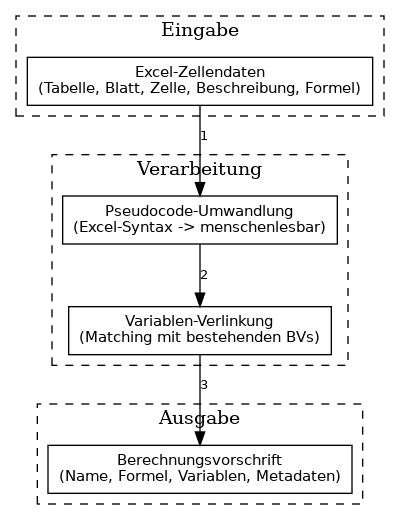
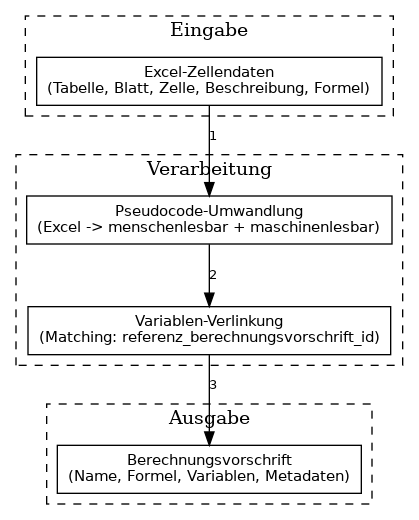
Dokumentation: Erweiterungen und DOT-Diagramme
- Formel-Syntax: menschen- und maschinenlesbar (01_definition)
- Variablen-Referenz: referenz_berechnungsvorschrift_id (01_definition)
- Versionierung: Account-Referenz (erstellt_von, geaendert_von)
- Versionierungsoptionen: 4 unterschiedliche Strategien, Empfehlung Option B
- Erzeugung in ExcelToBerechnungsvorschriften, Transfer zu IAK Farmaxis
- Neues Kapitel 05: Zusammenfuehrung von Berechnungsvorschriften
- DOT-Diagramme erweitert: formel_syntax, zusammenfuehrung_ablauf, transfer_ablauf
- Alle Diagramme an Dokumentation angepasst

diff --git a/dokumentation/05_zusammenfuehrung.md b/dokumentation/05_zusammenfuehrung.md
@@ -1,0 +1,105 @@
+# Zusammenführung von Berechnungsvorschriften
+
+## Ausgangslage
+
+**ExcelToBerechnungsvorschriften** bildet jede Zelle aus einem Excel-Dokument zu **einer** Berechnungsvorschrift ab. Das führt zu:
+
+- **Vielen einfachen Berechnungsvorschriften** – oft nur eine Zelle oder eine einfache Formel pro BV
+- **Starker Verlinkung** – BVs referenzieren sich gegenseitig über Variablen
+- **Schwer überschaubarer Struktur** – bei großen Excel-Dateien entstehen hunderte BVs
+
+**Beispiel:** Eine Excel-Tabelle mit 200 Zellen ergibt 200 Berechnungsvorschriften, die stark miteinander verlinkt sind.
+
+## Ziel der Zusammenführung
+
+Als Anwender soll es möglich sein, eine **Menge an Berechnungsvorschriften zusammenzuführen** – also mehrere BVs zu einer oder wenigen BVs zu konsolidieren. Dadurch:
+
+- Weniger, aber inhaltlich reichhaltigere BVs
+- Bessere Übersicht für die Pflege
+- Fachlich sinnvollere Gruppierung (z.B. alle Berechnungen zu „Lohnkosten“ in einer BV)
+
+## Konzept
+
+### Grundidee
+
+Mehrere Berechnungsvorschriften werden zu **einer** Berechnungsvorschrift zusammengeführt. Die resultierende BV enthält:
+
+- Einen **konsolidierten Namen** (z.B. aus der übergeordneten Kategorie)
+- Eine **kombinierte Formel** – entweder als Verkettung der Einzelformeln oder als neue Gesamtformel
+- **Alle Variablen** der Ursprungs-BVs (ohne Duplikate)
+- **Metadaten** aus der „Haupt-BV“ oder neu definiert
+
+### Voraussetzungen für die Zusammenführung
+
+
+| Voraussetzung                                  | Beschreibung                                                                                                                           |
+| ---------------------------------------------- | -------------------------------------------------------------------------------------------------------------------------------------- |
+| **Keine zirkulären Abhängigkeiten**            | Die zu zusammenführenden BVs dürfen untereinander keine Zirkularität aufweisen (A→B→C→A)                                               |
+| **Konsistente Metadaten**                      | Kategorie, Datentyp, Einheit sollten kompatibel sein – sonst Warnung                                                                   |
+| **Keine externen Referenzen auf „innere“ BVs** | BVs außerhalb der Menge dürfen nicht auf BVs verweisen, die nur intern verwendet werden (oder die Referenzen müssen umgeleitet werden) |
+
+
+### Ablauf (konzeptionell)
+
+![Zusammenführungsablauf](diagramme/zusammenfuehrung_ablauf.png)
+
+1. **Auswahl:** Anwender wählt die Menge der zu zusammenführenden BVs (z.B. alle BVs eines Tabellenblatts, einer Kategorie, oder manuell)
+2. **Prüfung:** System prüft Zirkularität, externe Referenzen, Metadaten-Konsistenz
+3. **Bestimmung der „Wurzel-BV“:** Die BV, die von keiner anderen in der Menge referenziert wird (oder die fachlich als Haupt-BV gilt), wird zur Basis
+4. **Formel-Aufbau:** Die Formeln werden zu einer Gesamtformel zusammengeführt – entweder durch Substitution (Variablen durch Unterformeln ersetzen) oder durch explizite Verkettung
+5. **Variablen-Konsolidierung:** Alle Variablen werden gesammelt; Variablen, die auf zusammengeführte BVs verweisen, werden zu primitiven Variablen oder auf die neue BV umgeleitet
+6. **Referenz-Anpassung:** Alle BVs außerhalb der Menge, die auf die alten BVs verwiesen haben, werden auf die neue BV umgestellt (oder auf die entsprechende Variable in der neuen BV)
+7. **Löschung/Archivierung:** Die alten BVs werden gelöscht oder archiviert
+
+## Potenzielle Probleme
+
+### 1. Zirkuläre Abhängigkeiten
+
+**Problem:** BV A verwendet BV B, BV B verwendet BV C, BV C verwendet BV A. Eine Zusammenführung ist nicht eindeutig möglich.
+
+**Lösung:** Zusammenführung nur zulassen, wenn die Menge azyklisch ist. Bei Zyklen: Fehlermeldung, Anwender muss die Menge anpassen.
+
+### 2. Externe Referenzen
+
+**Problem:** BV X (außerhalb der Menge) verweist auf BV B (in der Menge). Nach der Zusammenführung existiert BV B nicht mehr.
+
+**Lösung:** Vor der Zusammenführung prüfen, welche externen BVs auf die zu zusammenführenden BVs verweisen. Optionen:
+
+- **Umleitung:** Die Referenz in X wird auf die neue BV umgestellt (wenn die Variable in der neuen BV erhalten bleibt)
+- **Ablehnung:** Zusammenführung verweigern, bis der Anwender die externen Referenzen manuell löst
+- **Kaskadierte Anpassung:** Externe BVs werden automatisch angepasst (kann unerwünschte Nebenwirkungen haben)
+
+### 3. Verlust von Granularität
+
+**Problem:** Nach der Zusammenführung ist die feine Struktur (eine Zelle = eine BV) verloren. Einzelne Fehler sind schwerer zu lokalisieren.
+
+**Lösung:** Die ursprünglichen BVs können **archiviert** statt gelöscht werden. Oder: Die neue BV enthält `quelle`-Informationen, die auf die ursprünglichen Zellen verweisen (z.B. als Liste von Quellen).
+
+### 4. Formel-Komplexität
+
+**Problem:** Die zusammengeführte Formel kann sehr lang und unübersichtlich werden – besonders wenn viele BVs mit komplexen Formeln zusammengeführt werden.
+
+**Lösung:** 
+
+- Zusammenführung auf **fachlich sinnvolle** Mengen beschränken (z.B. max. 5–10 BVs)
+- Option: Statt einer Monolith-Formel eine **strukturierte Darstellung** (z.B. Unterformeln als benannte Blöcke)
+- Klare Namensgebung für Variablen in der resultierenden BV
+
+### 5. Metadaten-Konflikt
+
+**Problem:** Die zu zusammenführenden BVs haben unterschiedliche Kategorien, Einheiten oder Datentypen.
+
+**Lösung:** Der Anwender muss die Metadaten der neuen BV explizit festlegen. Das System warnt bei Inkonsistenzen und schlägt einen Default vor (z.B. aus der „Haupt-BV“).
+
+### 6. Reihenfolge und Auswertung
+
+**Problem:** Bei der Zusammenführung muss die Auswertungsreihenfolge stimmen – Variablen müssen vor ihrer Verwendung definiert sein.
+
+**Lösung:** Die Zusammenführung erfolgt entlang des Abhängigkeitsgraphen (topologische Sortierung). Die resultierende Formel wird so aufgebaut, dass die Reihenfolge korrekt ist.
+
+## Empfehlung
+
+- **Zusammenführung als explizite Benutzeraktion** – nicht automatisch. Der Anwender wählt die Menge und bestätigt die Zusammenführung.
+- **Vorschau vor Ausführung** – das System zeigt die resultierende BV (Name, Formel, Variablen) zur Prüfung an, bevor die Zusammenführung durchgeführt wird.
+- **Archivierung statt Löschung** – die ursprünglichen BVs werden archiviert (z.B. mit Flag „zusammengeführt_in“), sodass bei Bedarf nachvollzogen werden kann, woher die neue BV stammt.
+

diff --git a/dokumentation/02_versionierungskonzept.md b/dokumentation/02_versionierungskonzept.md
@@ -2,25 +2,54 @@
 
 ## Übersicht
 
-Die Versionierung von Berechnungsvorschriften ermöglicht Nachvollziehbarkeit und Rückverfolgbarkeit von Änderungen. Die folgenden Optionen beschreiben unterschiedliche fachliche Strategien – ohne technische Umsetzungsdetails.
+Die Versionierung von Berechnungsvorschriften ermöglicht Nachvollziehbarkeit und Rückverfolgbarkeit von Änderungen. Die folgenden Optionen beschreiben **unterschiedliche fachliche Strategien** – jede schließt die andere aus. Ohne technische Umsetzungsdetails.
 
-## Option A: Vollständige Historie
+## Account-Referenz bei Änderungen
 
-- **Prinzip:** Alle Versionen bleiben erhalten. Jede Änderung erzeugt eine neue Version.
-- **Vorteil:** Vollständige Nachvollziehbarkeit, Wiederherstellung alter Versionen möglich.
+Unabhängig von der gewählten Versionierungsstrategie sollte jede Version einen Verweis auf den **Account** (Benutzer) enthalten, der die Änderung herbeigeführt hat:
+
+| Feld | Bedeutung |
+|------|-----------|
+| `erstellt_von` | Account, der die Berechnungsvorschrift angelegt hat |
+| `geaendert_von` | Account, der die letzte Änderung (diese Version) vorgenommen hat |
+
+Damit ist jeder Versionsstand einer Person zuordenbar – für Audit, Nachverfolgung und Rückfragen.
+
+## Versionierungsoptionen (unterschiedliche Strategien)
+
+### Option A: Minimal – nur aktuelle Version
+
+- **Prinzip:** Es wird nur die aktuelle Version gespeichert. Bei jeder Änderung wird die alte Version überschrieben. Die Versionsnummer wird erhöht – aber die alte Version ist nicht mehr abrufbar.
+- **Vorteil:** Einfach, geringer Speicherbedarf, keine Historie-Verwaltung.
+- **Nachteil:** Keine Wiederherstellung, keine Nachvollziehbarkeit vergangener Zustände.
+- **Einsatz:** Wenn nur die aktuelle Version relevant ist und keine Compliance-Anforderungen bestehen.
+
+### Option B: Vollständige Historie mit allen Versionen
+
+- **Prinzip:** Jede Änderung erzeugt eine neue Version. Alle Versionen bleiben erhalten und sind abrufbar. Jede Version ist unveränderlich (immutable).
+- **Vorteil:** Vollständige Nachvollziehbarkeit, Wiederherstellung alter Versionen möglich, Audit-Trail.
 - **Nachteil:** Höherer Speicherbedarf, Historie muss gepflegt und abgefragt werden können.
+- **Einsatz:** Wenn Nachvollziehbarkeit, Compliance oder Audit-Anforderungen relevant sind.
 
-## Option B: Nur aktuelle Version
+### Option C: Branch-basierte Versionierung
 
-- **Prinzip:** Versionsnummer zur Nachverfolgung, alte Versionen werden bei Speicherung überschrieben.
-- **Vorteil:** Einfach, geringer Speicherbedarf.
-- **Nachteil:** Keine Wiederherstellung alter Versionen, nur aktuelle Version verfügbar.
+- **Prinzip:** Es gibt eine Hauptversion („Produktion“) und optional Entwurfsversionen („Branches“). Änderungen erfolgen zunächst in einem Branch; nach Freigabe wird in die Hauptversion übernommen.
+- **Vorteil:** Klare Trennung zwischen Entwurf und freigegebener Version, kontrollierte Freigabe.
+- **Nachteil:** Komplexer, erfordert Freigabe-Workflow.
+- **Einsatz:** Wenn formale Freigabeprozesse erforderlich sind (z.B. Prüfung vor Aktivierung).
 
-## Option C: Zeitstempel-basierte Versionierung
+### Option D: Stichtag-basierte Snapshots
 
-- **Prinzip:** Zusätzlich zur Versionsnummer wird der Änderungszeitpunkt (`geaendert_am`) als Versionierungs-Key genutzt.
-- **Vorteil:** Audit-Trail, zeitliche Zuordnung von Änderungen.
-- **Anwendung:** Kann mit Option A oder B kombiniert werden.
+- **Prinzip:** Zu bestimmten Stichtagen (z.B. Jahresabschluss, Quartalsende) werden Snapshots aller Berechnungsvorschriften erstellt. Die laufende Version kann sich ändern; die Stichtags-Versionen bleiben fix.
+- **Vorteil:** Reproduzierbarkeit zu Stichtagen, z.B. für Berichte oder Audits.
+- **Nachteil:** Keine Versionierung pro Änderung, nur zu definierten Zeitpunkten.
+- **Einsatz:** Wenn Stichtags-Konsistenz erforderlich ist (z.B. Rechnungslegung).
+
+## Empfehlung
+
+**Empfohlen wird Option B: Vollständige Historie mit allen Versionen.**
+
+Begründung: Berechnungsvorschriften sind oft fachlich und rechtlich relevant. Nachvollziehbarkeit, Wiederherstellung bei Fehlern und Audit-Trail sind in der Regel wichtiger als Speicherersparnis. Die Account-Referenz (`geaendert_von`) ergänzt die Option sinnvoll.
 
 ## Was wird versioniert?
 
@@ -30,6 +59,7 @@ Die **gesamte Berechnungsvorschrift** wird versioniert – inklusive:
 - Metadaten (Kategorie, Symbol, Datentyp, Einheit)
 - Quelle-Information
 - Verlinkungen zu anderen Berechnungsvorschriften
+- `erstellt_von` / `geaendert_von` (Account-Referenz)
 
 ## Lebenszyklus
 

diff --git a/dokumentation/01_definition.md b/dokumentation/01_definition.md
@@ -22,6 +22,24 @@ Jede Wertquelle in der Formel wird als **Variable** abgebildet:
 
 Der Variablenname muss exakt mit dem Namen im Formel-String übereinstimmen (Verlinkbarkeit, Auswertung).
 
+### Referenz auf andere Berechnungsvorschriften
+
+Eine Variable verweist auf eine andere Berechnungsvorschrift über:
+
+| Mechanismus | Beschreibung |
+|-------------|--------------|
+| **Im Formel-String** | Der Variablenname erscheint im Pseudocode (z.B. `Jahresnettogehalt/12`). Er ist menschenlesbar und dient der Anzeige. |
+| **In der Variablen-Definition** | Das Feld `referenz_berechnungsvorschrift_id` enthält die eindeutige ID (UUID) der referenzierten Berechnungsvorschrift. Dies ist die maschinenlesbare Referenz. |
+| **Matching** | Beim Erzeugen wird automatisch geprüft: Gibt es eine BV mit passender Quelle (Zellenidentifikator, Tabellenblatt) oder Beschreibung? Bei genau einem Treffer wird `referenz_berechnungsvorschrift_id` gesetzt und `ist_primitive = false`. |
+
+**Zwei-Ebenen-Modell:**
+- **Anzeige:** Variablenname im Formel-String (für Menschen)
+- **Referenz:** `referenz_berechnungsvorschrift_id` in der Variablen-Liste (für Maschinen, Navigation, Auswertung)
+
+Bei primitiven Variablen ist `referenz_berechnungsvorschrift_id` leer; der Wert kommt aus einer externen Quelle (z.B. Excel-Zelle).
+
+![Zwei-Ebenen-Modell: Formel-Syntax](diagramme/formel_syntax.png)
+
 ## Abhängigkeiten
 
 Für jede Berechnungsvorschrift werden zwei Listen geführt:
@@ -29,17 +47,39 @@ Für jede Berechnungsvorschrift werden zwei Listen geführt:
 - **„Verwendet folgende Berechnungsvorschriften“**: Alle BVs, die im Pseudocode dieser Berechnungsvorschrift vorkommen (anklickbar zur Navigation).
 - **„Wird verwendet in“**: Alle BVs, die diese Berechnungsvorschrift referenzieren.
 
-## Pseudocode
+## Formel-Syntax (Pseudocode)
 
-Die Formel wird als **Pseudocode** statt als Excel-Syntax dargestellt:
+Die Formel wird als **Pseudocode** dargestellt – sowohl **menschenlesbar** als auch **maschinenlesbar** für die Auswertung.
 
-- Sprechende Variablennamen (z.B. „Jahresnettogehalt“ statt „B1“)
-- Keine Zellreferenzen, kein „=“, keine Bereichsnotation
+### Grundprinzipien
+
+| Anforderung | Beschreibung |
+|-------------|--------------|
+| **Menschenlesbar** | Sprechende Variablennamen, keine Excel-Syntax, keine Kommentare |
+| **Maschinenlesbar** | Eindeutige Zuordnung: Jeder Variablenname im Formel-String muss exakt einer Variable in `variablen[]` entsprechen |
+| **Deterministisch** | Keine Ambiguität – Variablenname und Operatoren sind eindeutig interpretierbar |
+
+### Erlaubte Elemente
+
+- **Variablen:** Namen aus `variablen[].name` (exakt, case-sensitive)
+- **Operatoren:** `+`, `-`, `*`, `/`, `(` `)` für arithmetische Ausdrücke
+- **Bedingungen:** `Wenn Bedingung dann Wert1 sonst Wert2` (für WENN-Funktionen)
+- **Vergleiche:** `>`, `<`, `>=`, `<=`, `=`, `<>` (in Bedingungen)
+
+### Nicht erlaubt
+
+- Kein `=`, keine Zellreferenzen (A1, $B$2), keine Bereichsnotation (A1:A10)
 - Keine Kommentare im Pseudocode
-- Excel-Funktionen werden in lesbare Form umgewandelt (z.B. SUMME → Addition)
+- Keine Excel-Funktionsnamen (SUMME, MITTELWERT etc.) – werden in lesbare Form umgewandelt
 
-**Beispiel:**  
-Excel: `=B1/12` → Pseudocode: `Jahresnettogehalt/12`
+### Beispiele
+
+| Excel | Pseudocode |
+|-------|------------|
+| `=B1/12` | `Jahresnettogehalt/12` |
+| `=A1+B1*C1` | `Bruttogehalt + Zulage * Faktor` |
+| `=WENN(C1>0;D1;0)` | `Wenn Bedingung dann Wert1 sonst 0` |
+| `=SUMME(A1:A10)` | `Wert1 + Wert2 + … + Wert10` (mit sprechenden Variablennamen) |
 
 ## Abhängigkeitsgraph
 

diff --git a/dokumentation/03_wartung.md b/dokumentation/03_wartung.md
@@ -2,19 +2,32 @@
 
 ## Übersicht
 
-Die Wartung von Berechnungsvorschriften erfolgt im Webbrowser in der Anwendung **IAK Farmaxis**. Dieser Abschnitt beschreibt die Abläufe und Prozesse aus Benutzersicht.
+Die Wartung von Berechnungsvorschriften erfolgt im Webbrowser in der Anwendung **IAK Farmaxis**. Die **Erzeugung** erfolgt primär in **ExcelToBerechnungsvorschriften**; die Daten werden in einem Prozess zu IAK Farmaxis übertragen.
 
-## Erzeugung
+## Erzeugung und Datenfluss
 
-Berechnungsvorschriften entstehen aus Excel-Zellendaten:
+### Primär: ExcelToBerechnungsvorschriften
 
-1. **Eingabe:** Tabellenidentifikator, Tabellenblatt, Zellenidentifikator, Beschreibung, Formel
+Die **Erzeugung** von Berechnungsvorschriften erfolgt primär im Projekt **ExcelToBerechnungsvorschriften**:
+
+1. **Eingabe:** Tabellenidentifikator, Tabellenblatt, Zellenidentifikator, Beschreibung, Formel (Excel-Zellendaten)
 2. **Verarbeitung:** Pseudocode-Umwandlung (Excel-Syntax → menschenlesbar), Variablen-Verlinkung
 3. **Ausgabe:** Strukturierte Berechnungsvorschrift mit Name, Formel, Variablen, Metadaten
 
 ![Erzeugungsablauf](diagramme/erzeugung_ablauf.png)
 
-## Pflege im Webbrowser (IAK Farmaxis)
+### Transfer zu IAK Farmaxis
+
+Die erzeugten Berechnungsvorschriften werden in einem **Prozess** zu IAK Farmaxis übertragen:
+
+![Transfer ExcelToBerechnungsvorschriften → IAK Farmaxis](diagramme/transfer_ablauf.png)
+
+- ExcelToBerechnungsvorschriften ist die **Quelle** der Daten
+- IAK Farmaxis ist die **Zielanwendung** für Pflege und Anzeige
+- Der Transfer kann manuell (Export/Import), per Schnittstelle oder automatisiert erfolgen
+- Nach dem Transfer stehen die Daten in IAK Farmaxis für die weitere Pflege zur Verfügung
+
+### Pflege im Webbrowser (IAK Farmaxis)
 
 In IAK Farmaxis können Berechnungsvorschriften:
 
@@ -22,12 +35,14 @@ In IAK Farmaxis können Berechnungsvorschriften:
 - **bearbeitet** werden (Formel, Metadaten)
 - **gesucht** werden (über Metadaten: Name, Kategorie, Symbol, Datentyp, Einheit)
 
+Änderungen in IAK Farmaxis können – je nach Prozess – zurück zu ExcelToBerechnungsvorschriften fließen oder dort separat geführt werden.
+
 ## Workflows
 
 | Workflow | Beschreibung |
 |----------|--------------|
-| **Neuanlage** | Excel-Zellendaten eingeben → Berechnungsvorschrift wird erzeugt |
-| **Bearbeitung** | BV öffnen → Änderungen vornehmen → Speichern (erzeugt neue Version) |
+| **Neuanlage** | Excel-Zellendaten in ExcelToBerechnungsvorschriften eingeben → Berechnungsvorschrift wird erzeugt → Transfer zu IAK Farmaxis |
+| **Bearbeitung** | BV in IAK Farmaxis öffnen → Änderungen vornehmen → Speichern (erzeugt neue Version) |
 | **Historie anzeigen** | Versionsverlauf einer BV einsehen |
 | **Variablen-Verlinkung ändern** | Verlinkung aufheben (Variable wird primitiv) oder manuell verlinken (bei mehreren Treffern) |
 
@@ -41,9 +56,10 @@ In IAK Farmaxis können Berechnungsvorschriften:
 
 Die Frage „Wer darf was?“ sollte organisationsspezifisch geklärt werden:
 
-- Wer darf neue Berechnungsvorschriften anlegen?
-- Wer darf bestehende bearbeiten?
+- Wer darf neue Berechnungsvorschriften in ExcelToBerechnungsvorschriften anlegen?
+- Wer darf den Transfer zu IAK Farmaxis auslösen?
+- Wer darf bestehende BVs in IAK Farmaxis bearbeiten?
 - Wer darf Verlinkungen ändern?
 - Wer darf die Historie einsehen?
 
-Diese Rollen sind fachlich zu definieren und in der Anwendung abzubilden.
+Diese Rollen sind fachlich zu definieren und in den Anwendungen abzubilden.

diff --git a/dokumentation/diagramme/README.md b/dokumentation/diagramme/README.md
@@ -18,5 +18,8 @@ Voraussetzung: [Graphviz](https://graphviz.org/) muss installiert sein (z.B. `ap
 | `versionierung_workflow.dot` | `versionierung_workflow.png` | 02_versionierungskonzept.md |
 | `wartung_workflow.dot` | `wartung_workflow.png` | 03_wartung.md |
 | `abhaendigkeiten.dot` | `abhaendigkeiten.png` | 01_definition.md |
+| `transfer_ablauf.dot` | `transfer_ablauf.png` | 03_wartung.md |
+| `formel_syntax.dot` | `formel_syntax.png` | 01_definition.md (Zwei-Ebenen-Modell) |
+| `zusammenfuehrung_ablauf.dot` | `zusammenfuehrung_ablauf.png` | 05_zusammenfuehrung.md |
 
 Die PNG-Dateien sind Platzhalter, bis `render.sh` mit installiertem Graphviz ausgeführt wird.

diff --git a/dokumentation/README.md b/dokumentation/README.md
@@ -14,6 +14,7 @@ Diese Dokumentation beschreibt **fachlich und konzeptionell**, wie Berechnungsvo
 | [02 Versionierungskonzept](02_versionierungskonzept.md) | Versionierungsstrategien und Optionen (fachlich) |
 | [03 Wartung](03_wartung.md) | Wartungsabläufe, Workflows, Pflege im Webbrowser |
 | [04 Formel-Wartbarkeit](04_formel_wartbarkeit.md) | Pseudocode-Regeln, Unterstützung für Nichtinformatiker |
+| [05 Zusammenführung](05_zusammenfuehrung.md) | Konzept zum Zusammenführen mehrerer BVs, potenzielle Probleme |
 
 ## Diagramme
 
